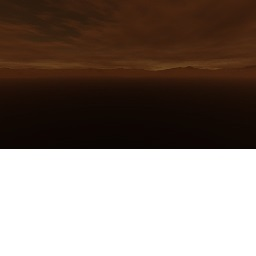
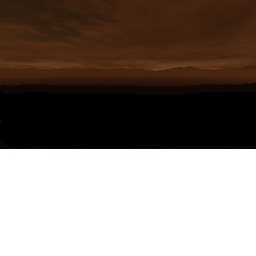
probando usar 2 triangulos en vez de 1 para intentar traer menos chunks. Resultados negativos, a demas parece que usar el triangulo en si es lento

Changed region(s): [[0.625, 0.3125, 1.0, 0.4375], [0.0, 0.3438, 0.3125, 0.4062], [0.4375, 0.3438, 0.5, 0.375]]

diff --git a/TGC.Group/Model/Camera.cs b/TGC.Group/Model/Camera.cs
@@ -257,7 +257,8 @@ namespace TGC.Group.Model.Camera
                 eyePosition += step;
                 horx.Origin = new TGCVector3(eyePosition.X - border, eyePosition.Y, eyePosition.Z);
                 horz.Origin = new TGCVector3(eyePosition.X, eyePosition.Y, eyePosition.Z - border);
-                down.Origin = new TGCVector3(eyePosition.X, eyePosition.Y + border, eyePosition.Z);
+                var ceilignH = 3 * border;
+                down.Origin = new TGCVector3(eyePosition.X, eyePosition.Y + ceilignH, eyePosition.Z);
 
                 bool doGoto = false;
                 var handleRays = new Action<Parallelepiped>((box) =>
@@ -284,31 +285,33 @@ namespace TGC.Group.Model.Camera
                     handleHor(horx);
                     handleHor(horz);
 
-                    var playerHeight = 9f;
-                    if (vSpeed <= 0 && box.intersectRay(down, out t, out q) && t < playerHeight * border)
-                    {
-                        if (t < playerHeight * border)
-                            displacement += -down.Direction * (playerHeight * border - t);
-                        onBox = true;
-                    }
+                    var cameraHeight = 9f*border;
 
-                    /*if (box.intersectRay(up, out t, out q) && t < border * 3)
+                    if (box.intersectRay(down, out t, out q) && t < cameraHeight+ceilignH)
                     {
-                        underRoof = true;
-                        if (t < border)
+                        if (t < ceilignH)
                         {
-                            if (onGround)//esta subiendo una pendiente hacia un techo, se pudre todo
+                            underRoof = true;
+                            if (t < border)
                             {
-                                eyePosition += new TGCVector3(eyePositionOffRoof.X - eyePosition.X, 0f, eyePositionOffRoof.Z - eyePosition.Z);
-                                //no es la mejor solucion porque causa mucho temblor, pero bueno
-                                doGoto=true;//salto el codigo de terreno porque puede hacer subir la camara
-                                return;
+                                if (onGround)//esta subiendo una pendiente hacia un techo, se pudre todo
+                                {
+                                    eyePosition += new TGCVector3(eyePositionOffRoof.X - eyePosition.X, 0f, eyePositionOffRoof.Z - eyePosition.Z);
+                                    //no es la mejor solucion porque causa mucho temblor, pero bueno
+                                    doGoto = true;//salto el codigo de terreno porque puede hacer subir la camara
+                                    return;
+                                }
+                                displacement += down.Direction * (border - t);
+                                vSpeed = 0f;
                             }
-                            displacement += -up.Direction * (border - t);
-                            vSpeed = 0f;
                         }
-
-                    }*/
+                        else if(vSpeed <= 0)
+                        {
+                            //t<cameraHeight+ceilingH
+                            displacement += -down.Direction * (cameraHeight+ceilignH - t);
+                            onBox = true;
+                        }
+                    }
                 });
                 var chunk = g.chunks.fromCoordinates(eyePosition, false);
                 Meshc setToRemove = null;
@@ -414,31 +417,38 @@ namespace TGC.Group.Model.Camera
             //Logger.Log(eyePosition);
             //Logger.Log(map.chunks.fromCoordinates(eyePosition, false).center.X.ToString()+"  "+ map.chunks.fromCoordinates(eyePosition, false).center.Y.ToString());
 
+;
 
-            // Y esta seteado para visualizarlo en debug nomas
-            var eyeUp = new TGCVector3(eyePosition.X, eyePosition.Y + 10f, eyePosition.Z);
-            triangle.a = eyeUp;
+            //un triangulo solo con
+            //far = 200000f sideStrech = .7f dibuja bien el fondo pero tiene errores cerca, y trae ~210 chunks
 
-            //cuando agregue niebla cambiar estos dos
-            var far = 200000f;
-            var sideStrech = .7f;
+            var formatTriangle = new Action<Triangle,float,float, float>((triangle, backup, far, sideStretch) => {
+                // Y esta seteado para visualizarlo en debug nomas
+                float triangleHeigh= eyePosition.Y + 10f;
 
-            var lineVec = (cameraFinalTarget - eyePosition) * far;
+                var eyeDir = (cameraFinalTarget - eyePosition);
+                eyeDir.Y = 0;//ignorar y
+                eyeDir.Normalize();
 
-            var Pend = lineVec + eyePosition;
-            Pend.Y = eyeUp.Y;
+                var Pend = eyeDir * far + eyePosition;
+                triangle.a = eyeDir * -backup + eyePosition;
 
-            var lineBack = TGCVector3.Cross(lineVec, new TGCVector3(0, 1, 0)) * sideStrech;
-            var PBeg = -lineBack + Pend;
-            var PendBack = lineBack + Pend;
-            PendBack.Y = eyeUp.Y;
+                Pend.Y = triangleHeigh;
+                triangle.a.Y = triangleHeigh;
 
-            triangle.b = PBeg;
-            triangle.c = PendBack;
-
-
+                var lineBack = TGCVector3.Cross(eyeDir, new TGCVector3(0, 1, 0)) * sideStretch;
+                var PBeg = -lineBack + Pend;
+                var PendBack = lineBack + Pend;
 
 
+                PendBack.Y = triangleHeigh;
+
+                triangle.b = PBeg;
+                triangle.c = PendBack;
+            });
+            formatTriangle(triangleFar,  0f,   150000f,  80000f);
+            //formatTriangle(triangleNear, 10000f, 80000f, 110000f);
+            
         }
 
 
@@ -448,6 +458,7 @@ namespace TGC.Group.Model.Camera
             public TGCVector3 a, b, c; //deberian ser TGCVector2 pero por conveniencia
             public void render()
             {
+
                 var line = TgcLine.fromExtremes(a, (b + c) * .5f, Color.Red);
                 var back = TgcLine.fromExtremes(b, c, Color.Green);
                 var leg1 = TgcLine.fromExtremes(a, b, Color.Yellow);
@@ -476,7 +487,8 @@ namespace TGC.Group.Model.Camera
                 return w1 >= 0 && w2 >= 0 && (w1 + w2) <= 1;
             }
         }
-        public Triangle triangle = new Triangle();
+        public Triangle triangleFar = new Triangle();
+        public Triangle triangleNear = new Triangle();
 
 
 

diff --git a/TGC.Group/Model/Chunk.cs b/TGC.Group/Model/Chunk.cs
@@ -179,38 +179,28 @@ namespace TGC.Group.Model
                 Meshc.matrizChange = false;
             }
 
-
-
-
-            var s = toIndexSpace(g.camera.eyePosition);
-            chunks[s.i, s.j].render();
-            chunks[s.i+1, s.j].render();
-            chunks[s.i+1, s.j+1].render();
-            chunks[s.i, s.j+1].render();
-            chunks[s.i-1, s.j+1].render();
-            chunks[s.i-1, s.j].render();
-            chunks[s.i-1, s.j-1].render();
-            chunks[s.i, s.j-1].render();
-            chunks[s.i+1, s.j-1].render();
-
             int chunksInTriangle = 0;
             foreach (Chunk chunk in chunks)
             {
-                if (g.camera.triangle.enclosesPoint(chunk.center))
+                if (g.camera.triangleFar.enclosesPoint(chunk.center)) 
+                //    g.camera.triangleNear.enclosesPoint(chunk.center))
                 {
                     chunksInTriangle++;
                     chunk.render();
                 }
             }
-            //Console.WriteLine(chunksInTriangle.ToString());
+            Console.WriteLine(chunksInTriangle.ToString());
 
             //Logger.Log(s.i.ToString() + "  " + s.j.ToString() + "  " + chunksPerDim);
 
 
 
 
-            if(GameModel.debugChunks)
-                g.camera.triangle.render();
+            if (GameModel.debugChunks)
+            {
+                g.camera.triangleNear.render();
+                g.camera.triangleFar.render();
+            }
 
 
             //foreach (Chunk chunk in chunks)

diff --git a/TGC.Group/Model/Mostro.cs b/TGC.Group/Model/Mostro.cs
@@ -110,7 +110,7 @@ namespace TGC.Group.Model
             if (mode == 1)
             {
                 //mientras se lo este mirando no ataca al jugador, se queda cerca
-                if (g.camera.triangle.enclosesPoint(pos))
+                if (g.camera.triangleNear.enclosesPoint(pos))
                 {
                     if (setObj)
                     {

diff --git a/TGC.Group/Model/CameraSprites.cs b/TGC.Group/Model/CameraSprites.cs
@@ -209,7 +209,7 @@ namespace TGC.Group.Model
         public bool infiniteStamina = true;
         public bool squeletonHalfSpeed = true;
         public int candlesRequired = 9;
-        public int candlesInMap = 40;
+        public int candlesInMap = 9;
         public bool debugVisualizations = true;
         public bool inmunity = true;
 

diff --git a/TGC.Group/Model/Hands.cs b/TGC.Group/Model/Hands.cs
@@ -9,7 +9,7 @@ namespace TGC.Group.Model
 {
     class Hands
     {
-        public int state = 2;//0 nada 1 mano derecha 2 ambas manos
+        public int state = 0;//0 nada 1 mano derecha 2 ambas manos
 
         //estas variables estan para hacer la animacion de levantar la vela si es que la hago,
         //por ahora lo dejo para el final
